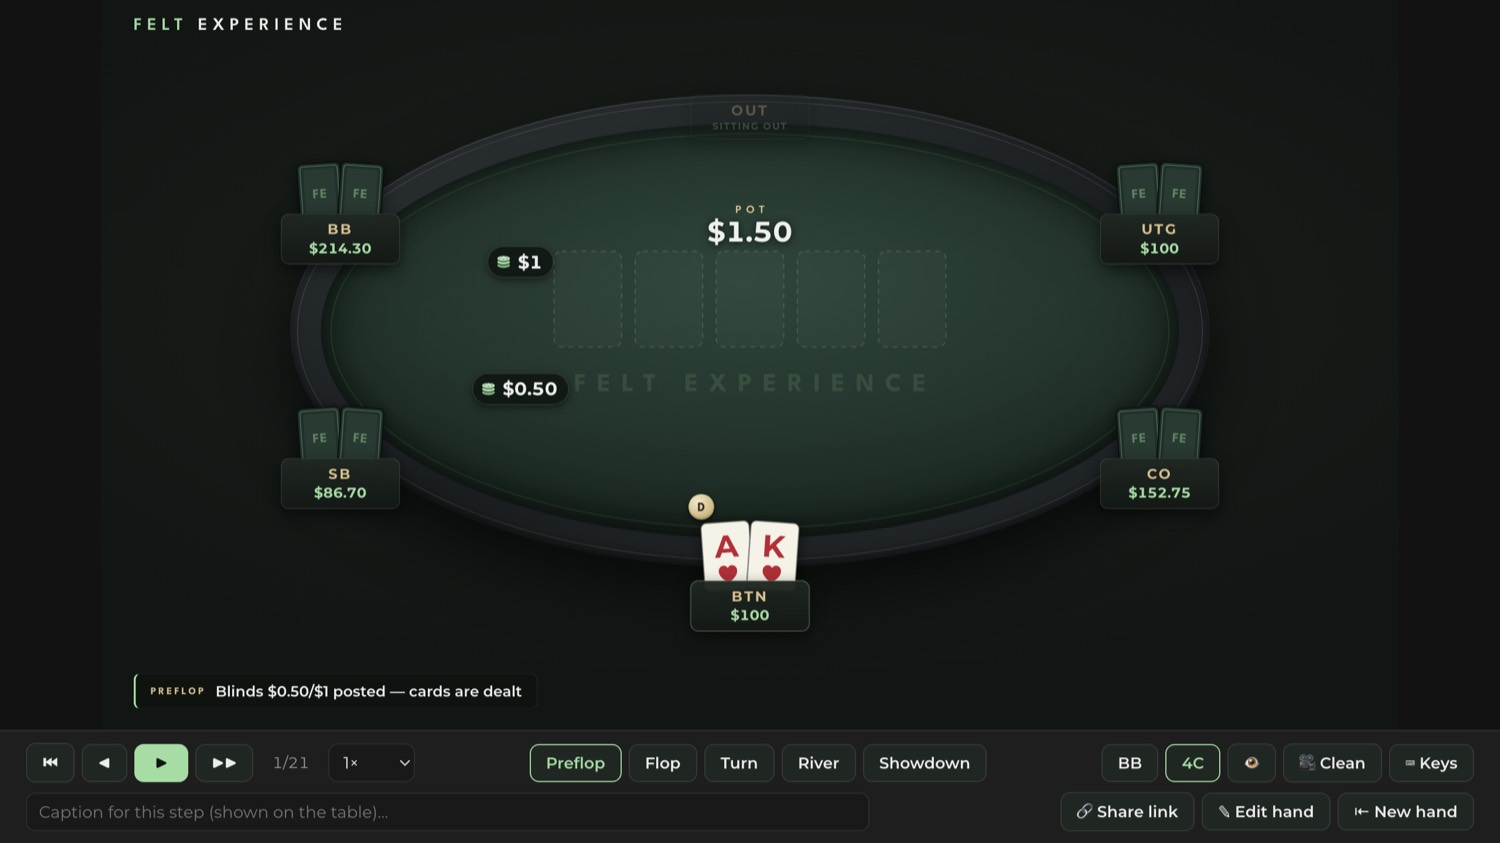
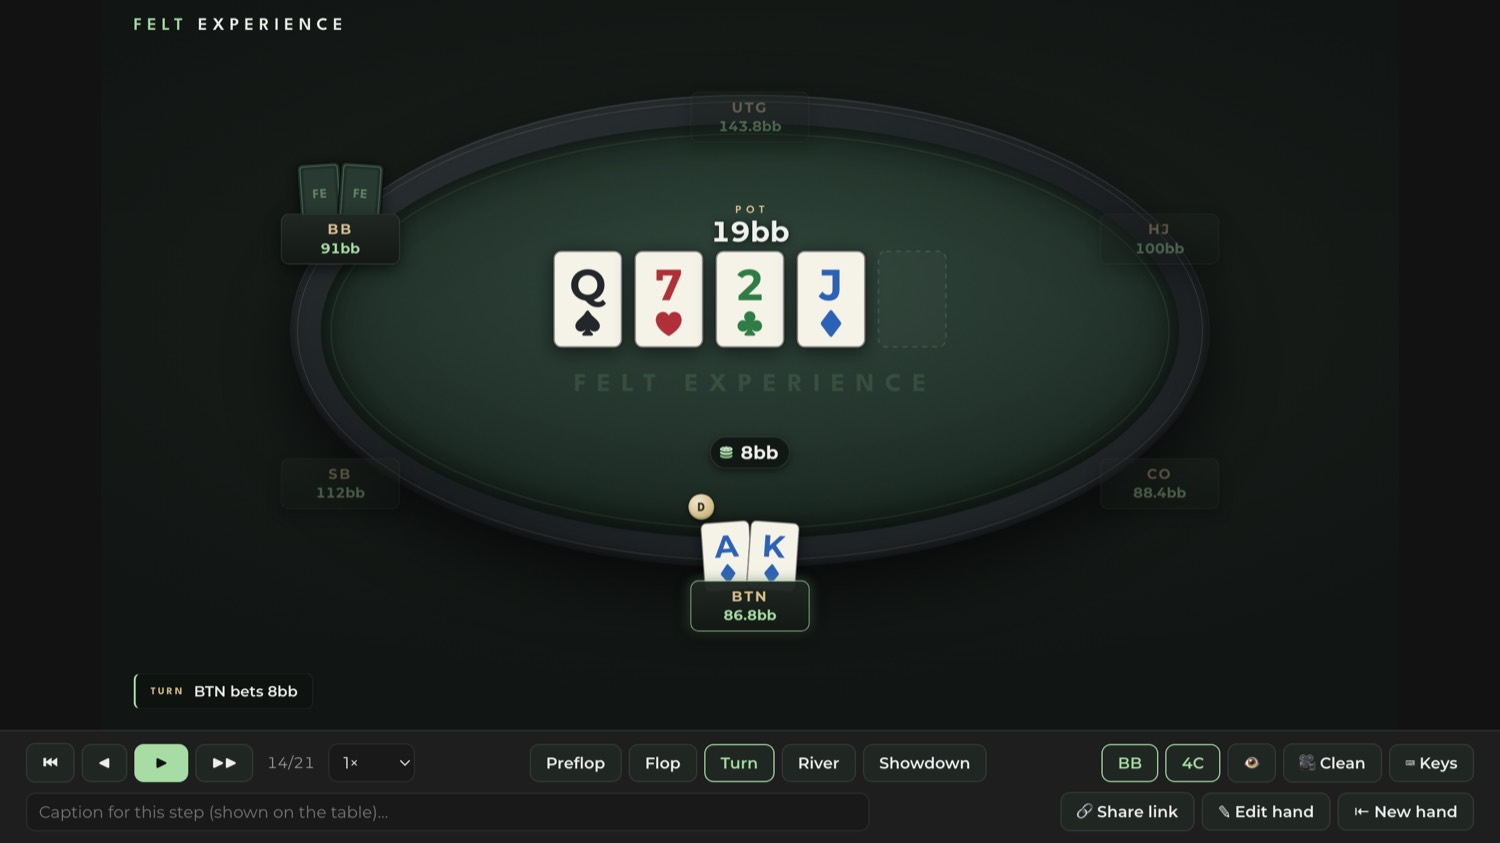
Better replayer screenshot on the homepage
Turn spot instead of the pre-deal frame: a real board, a 19bb pot and a
bet out front. Board is Q-spade 7-heart 2-club J-diamond, so all four
suit colours show at once, and the hole cards are diamonds rather than
hearts so they render blue. Big-blind display on.

diff --git a/index.html b/index.html
@@ -39,7 +39,7 @@
      GGPoker, ACR, Ignition, or ClubGG, or manually create your own, and walk through it street by street.</p>
   <a class="shot" href="https://replayer.feltexperiencepoker.com" target="_blank" rel="noopener">
     <img src="/assets/replayer.jpg" width="1500" height="843"
-         alt="The Felt Experience hand replayer showing a six-handed cash game" />
+         alt="The Felt Experience hand replayer showing a turn spot in a six-handed cash game" />
   </a>
   <div class="after">
     <span>Shared links unfurl into a picture of the hand, so you can post spots anywhere.</span>

diff --git a/build.py b/build.py
@@ -90,7 +90,7 @@ home = f"""
      GGPoker, ACR, Ignition, or ClubGG, or manually create your own, and walk through it street by street.</p>
   <a class="shot" href="{REPLAY}" target="_blank" rel="noopener">
     <img src="/assets/replayer.jpg" width="1500" height="843"
-         alt="The Felt Experience hand replayer showing a six-handed cash game" />
+         alt="The Felt Experience hand replayer showing a turn spot in a six-handed cash game" />
   </a>
   <div class="after">
     <span>Shared links unfurl into a picture of the hand, so you can post spots anywhere.</span>
